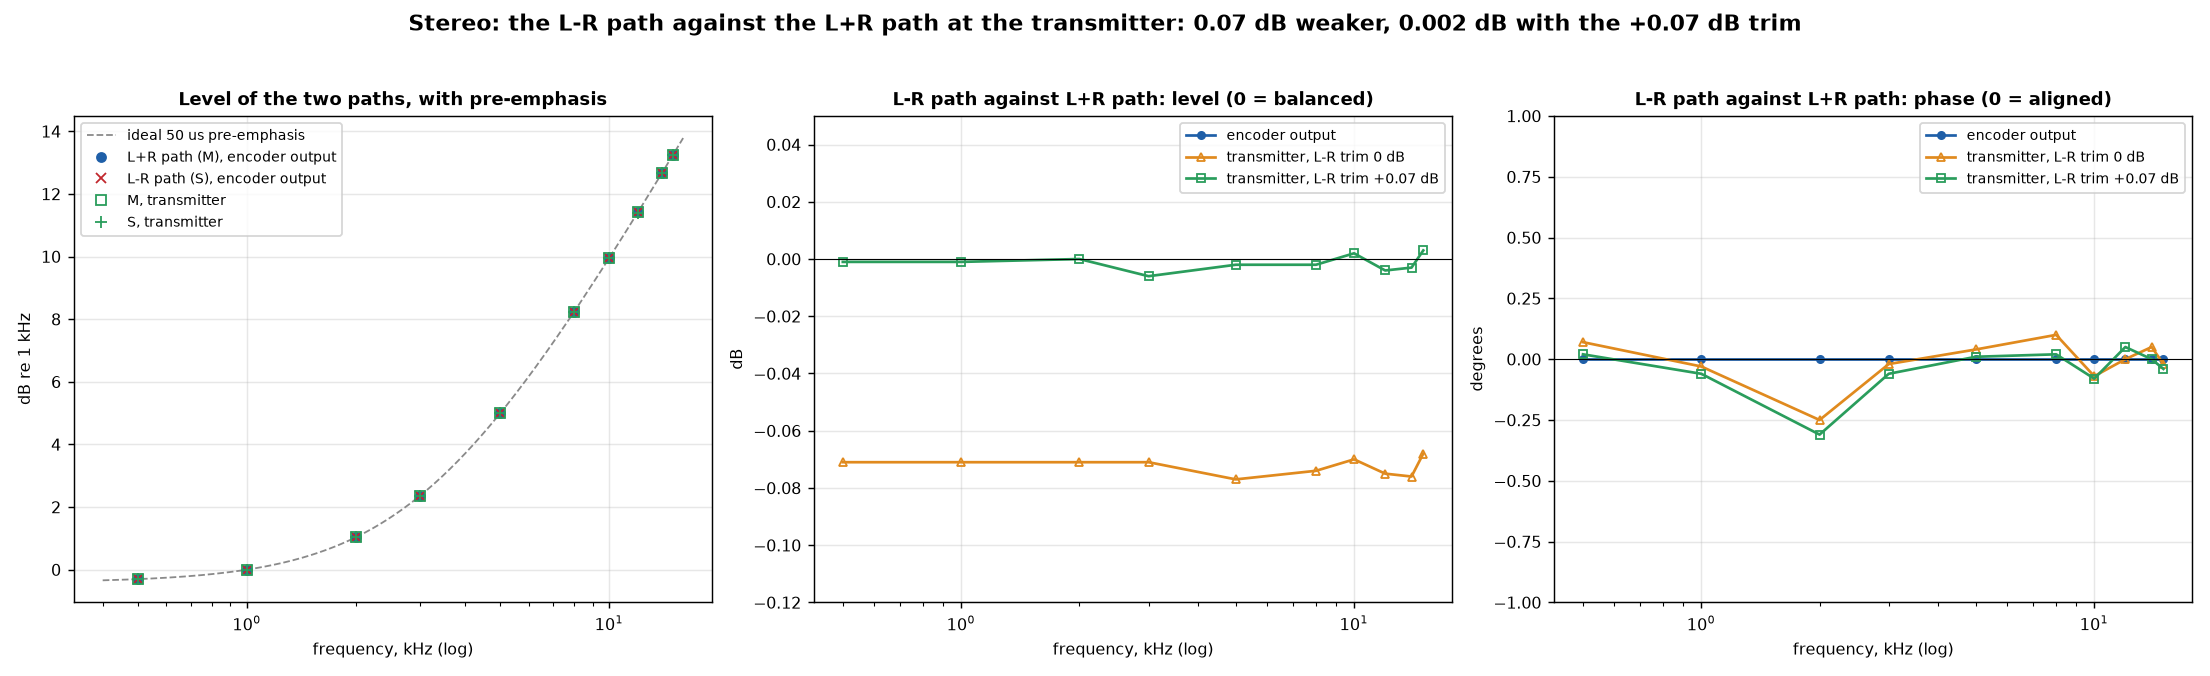
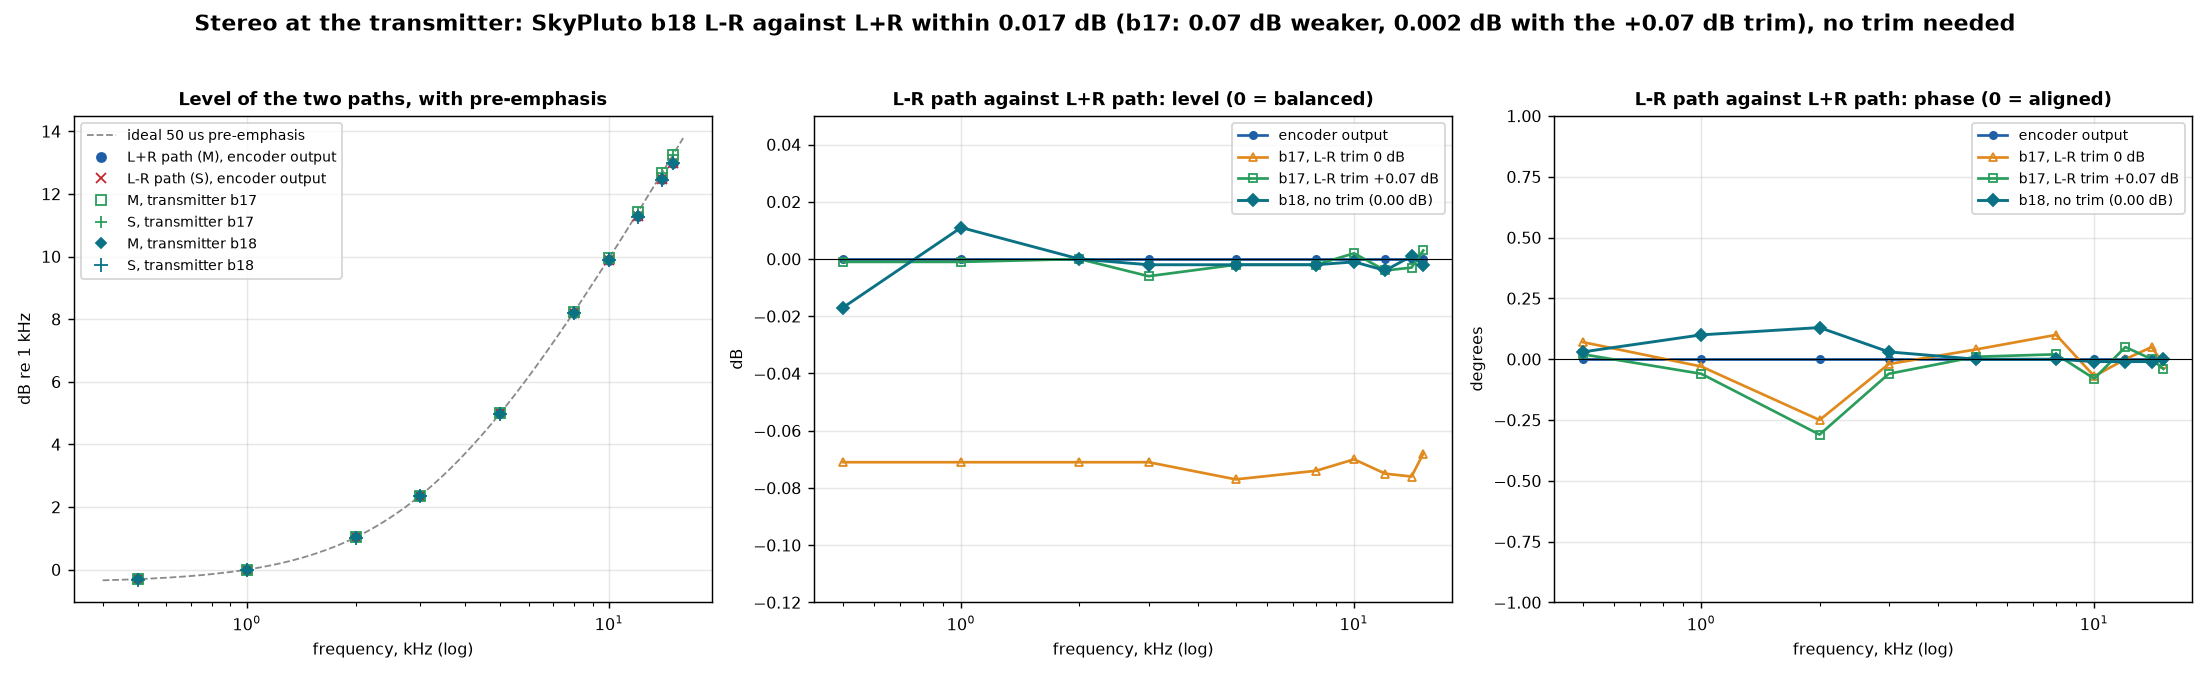
Updated stereo and mask figures for this release

diff --git a/README.md b/README.md
@@ -246,11 +246,11 @@ tools in `scripts/` and `src/skypluto-mask.c`. The figures come from the encoder
 | ![Phase and group delay](docs/figures/10-audio-phase.png) | ![Stereo balance](docs/figures/11-stereo-balance.png) |
 | **Fig. 3** Phase and group delay (encoder + Pluto, measured with impulses) | **Fig. 4** L+R and L−R path level and phase |
 | ![Stereo separation](docs/figures/12-stereo-separation.png) | ![LO leakage](docs/figures/13-lo-leakage.png) |
-| **Fig. 5** Stereo separation (tone on L only) | **Fig. 6** LO leakage, carrier-null method |
+| **Fig. 5** Stereo separation (tone on L only), this release without any trim against the earlier build | **Fig. 6** LO leakage, carrier-null method |
 
 ![Mask margin against maximum deviation](docs/figures/14-mask-vs-level.png)
 
-**Fig. 7** SM.1268-5 mask margin against the maximum deviation (1 kHz tone at 0 dBFS, mask guard off).
+**Fig. 7** SM.1268-5 mask margin against the maximum deviation (1 kHz tone at 0 dBFS, limiter on, mask guard off; the bold line is this release, the others are earlier builds).
 
 ---
 
